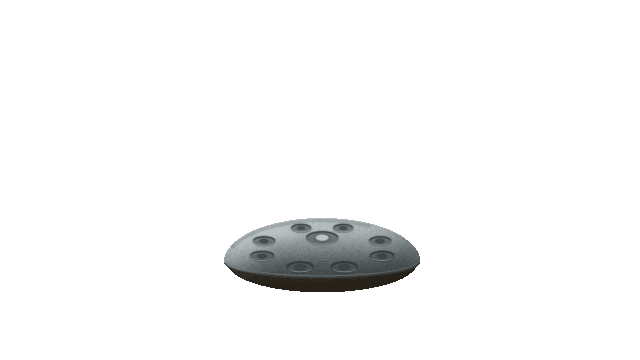
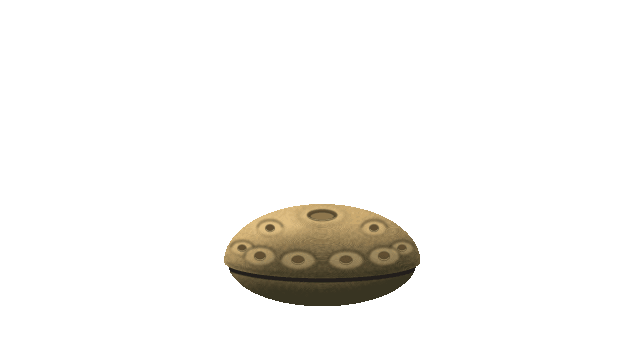
Nyitány: bronzos handpan a mintakép szerint; a kezek a zene kimért ütéseire, a lejátszás órájához kötve
Claude-Session: https://claude.ai/code/session_01T6sPwaPiVjASr8DLyjC9bo

Changed region(s): [[0.3438, 0.55, 0.6562, 0.8556]]

diff --git a/AETHER_godot/tools/intro_jatekos.py b/AETHER_godot/tools/intro_jatekos.py
@@ -26,7 +26,7 @@ SHIRT = (206, 192, 164)
 TROUSERS = (98, 88, 62)
 PAN_C = (322, 262)
 # a hangmezők a hangszer közepéhez képest (x, y, félszélesség); az első a középső „ding”
-FIELDS = [(0, -24, 16), (-58, -21, 11), (-21, -34, 10), (21, -34, 10), (58, -21, 11), (60, -6, 12), (22, 5, 13), (-22, 5, 13), (-60, -6, 12)]
+FIELDS = [(0, -47, 15), (-80, -14, 12), (-52, -34, 13), (52, -34, 13), (80, -14, 12), (62, -6, 16), (24, -2, 18), (-24, -2, 18), (-62, -6, 16)]
 
 
 def sc(pts):
@@ -147,33 +147,41 @@ def body():
 
 
 def pan():
-    """A handpan: két lapos, lencse alakú héj a peremnél összeillesztve, enyhén felülről nézve."""
+    """A handpan: két egymásra fordított, bronzos héj, köztük sötét perem; enyhén felülről nézve."""
     c = new()
     px, py = PAN_C
     rx = 98
-    # alsó héj: lapos, árnyékban van, csak egy keskeny ív látszik belőle a perem alatt
-    part(c, lambda d: d.chord(sc([(px - rx + 3, py - 30), (px + rx - 3, py + 30)]), 0, 180, fill=255), (120, 92, 70), round_r=10, k=0.9,
-         seed=11, ambient=0.50)
-    # felső héj: a perem (döntött kör) és a fölé domborodó lapos kupola
+    BR = (182, 152, 100)
+    # alsó héj: ugyanaz a fém, árnyékban
+    part(c, lambda d: d.chord(sc([(px - rx + 4, py - 44), (px + rx - 4, py + 44)]), 0, 180, fill=255), BR, round_r=14, k=1.1,
+         seed=11, grain=0.04, ambient=0.50)
+    # sötét perem a két héj között
+    tint(c, lambda d: d.ellipse(sc([(px - rx - 3, py - 17), (px + rx + 3, py + 20)]), fill=(34, 30, 27, 255)), blur=0.4)
+    # felső héj: a perem fölé magasan domborodó kupola
     def dome_shape(d):
-        d.ellipse(sc([(px - rx, py - 17), (px + rx, py + 17)]), fill=255)
-        d.chord(sc([(px - rx, py - 44), (px + rx, py + 44)]), 180, 360, fill=255)
-    dome = part(c, dome_shape, (150, 158, 160), round_r=18, k=1.25, seed=12, grain=0.03, ambient=0.86)
-    # a perem: sötét illesztés elöl, fölötte vékony csillanás
-    tint(c, lambda d: d.arc(sc([(px - rx, py - 17), (px + rx, py + 17)]), 4, 176, fill=(58, 50, 44, 255), width=int(1.6 * S)), blur=0.4)
-    tint(c, lambda d: d.arc(sc([(px - rx + 1, py - 19), (px + rx - 1, py + 14)]), 12, 168, fill=(222, 228, 228, 200), width=S), blur=0.5, clip=dome)
-    tint(c, lambda d: d.arc(sc([(px - rx + 2, py - 42), (px + rx - 2, py + 40)]), 200, 300, fill=(238, 242, 240, 190), width=int(1.4 * S)), blur=0.8, clip=dome)
-    tint(c, lambda d: d.ellipse(sc([(px - 74, py - 36), (px - 14, py - 20)]), fill=(240, 244, 240, 55)), blur=6, clip=dome)        # fényfolt
+        d.ellipse(sc([(px - rx, py - 17), (px + rx, py + 16)]), fill=255)
+        d.chord(sc([(px - rx, py - 58), (px + rx, py + 58)]), 180, 360, fill=255)
+    dome = part(c, dome_shape, BR, round_r=20, k=1.3, seed=12, grain=0.05, ambient=0.84)
+    tint(c, lambda d: d.ellipse(sc([(px - 80, py - 50), (px - 6, py - 22)]), fill=(250, 236, 196, 60)), blur=7, clip=dome)      # fényfolt
+    tint(c, lambda d: d.arc(sc([(px - rx + 1, py - 19), (px + rx - 1, py + 14)]), 15, 165, fill=(98, 78, 48, 150), width=int(2 * S)), blur=1.2, clip=dome)
     for i, (fx, fy, rw) in enumerate(FIELDS):
-        x, y, rh = px + fx, py + fy, rw * 0.40
-        tint(c, lambda d: d.ellipse(sc([(x - rw, y - rh), (x + rw, y + rh)]), fill=(70, 78, 82, 150)), blur=0.8, clip=dome)        # bemélyedés
-        tint(c, lambda d: d.arc(sc([(x - rw, y - rh), (x + rw, y + rh)]), 190, 350, fill=(52, 58, 62, 255), width=int(1.3 * S)), blur=0.4, clip=dome)
-        tint(c, lambda d: d.arc(sc([(x - rw, y - rh), (x + rw, y + rh)]), 20, 160, fill=(226, 232, 232, 220), width=int(1.2 * S)), blur=0.4, clip=dome)
-        if i == 0:
-            tint(c, lambda d: d.ellipse(sc([(x - 7, y - 4), (x + 7, y + 3)]), fill=(214, 220, 220, 230)), blur=0.8, clip=dome)      # a „ding” púpja
-        else:
-            tint(c, lambda d: d.ellipse(sc([(x - rw * 0.4, y - rh * 0.4), (x + rw * 0.4, y + rh * 0.4)]), fill=(56, 62, 66, 200)), blur=0.6, clip=dome)
-    return finish(c, 40)
+        x, y = px + fx, py + fy
+        if i == 0:                                   # a „ding”: gyűrűs mélyedés a tetőn
+            rh = rw * 0.36
+            tint(c, lambda d: d.ellipse(sc([(x - rw - 9, y - rh - 4), (x + rw + 9, y + rh + 5)]), fill=(232, 208, 156, 90)), blur=2.5, clip=dome)
+            tint(c, lambda d: d.ellipse(sc([(x - rw, y - rh), (x + rw, y + rh)]), fill=(86, 66, 40, 235)), blur=0.6, clip=dome)
+            tint(c, lambda d: d.ellipse(sc([(x - rw + 3, y - rh + 2.5), (x + rw - 3, y + rh)]), fill=(150, 122, 78, 235)), blur=0.6, clip=dome)
+            tint(c, lambda d: d.arc(sc([(x - rw, y - rh), (x + rw, y + rh)]), 20, 160, fill=(246, 228, 180, 220), width=S), blur=0.4, clip=dome)
+            continue
+        rh = rw * (0.62 if abs(fx) > 50 else 0.55)
+        # lapított hangmező: világosabb folt, felül árnyékos él
+        tint(c, lambda d: d.ellipse(sc([(x - rw, y - rh), (x + rw, y + rh)]), fill=(226, 200, 146, 105)), blur=1.6, clip=dome)
+        tint(c, lambda d: d.arc(sc([(x - rw, y - rh), (x + rw, y + rh)]), 185, 355, fill=(104, 82, 50, 170), width=int(1.6 * S)), blur=1.0, clip=dome)
+        # a közepén kis ovális bemélyedés
+        dw, dh = rw * 0.34, rh * 0.42
+        tint(c, lambda d: d.ellipse(sc([(x - dw, y - dh), (x + dw, y + dh)]), fill=(92, 70, 42, 240)), blur=0.5, clip=dome)
+        tint(c, lambda d: d.arc(sc([(x - dw, y - dh), (x + dw, y + dh)]), 10, 170, fill=(244, 224, 172, 230), width=S), blur=0.4, clip=dome)
+    return finish(c, 48)
 
 
 # a karok fázisai: (könyök, csukló, a kézfej iránya fokban) – 0 fent lebeg, 1 félúton, 2 a hangmezőn
